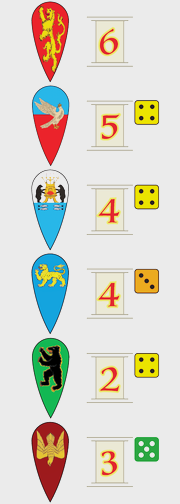
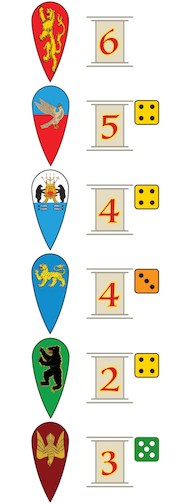
pngquant optimized images

diff --git a/play.html b/play.html
@@ -259,19 +259,19 @@ body.shift .mustered_vassals {
 .mat .mustered_vassals { bottom: 138px; right: 8px; width: 94px; }
 X.mat .mustered_vassals { top: 228px; right: 6px; width: 94px; }
 
-.mat.teutonic.andreas .background { background-image:url(images/mat_teutonic_andreas.png) }
-.mat.teutonic.heinrich .background { background-image:url(images/mat_teutonic_heinrich.png) }
-.mat.teutonic.hermann .background { background-image:url(images/mat_teutonic_hermann.png) }
-.mat.teutonic.knud_and_abel .background { background-image:url(images/mat_teutonic_knud_and_abel.png) }
-.mat.teutonic.rudolf .background { background-image:url(images/mat_teutonic_rudolf.png) }
-.mat.teutonic.yaroslav .background { background-image:url(images/mat_teutonic_yaroslav.png) }
+.mat.teutonic.andreas .background { background-image:url(images/mat_teutonic_andreas.opt.png) }
+.mat.teutonic.heinrich .background { background-image:url(images/mat_teutonic_heinrich.opt.png) }
+.mat.teutonic.hermann .background { background-image:url(images/mat_teutonic_hermann.opt.png) }
+.mat.teutonic.knud_and_abel .background { background-image:url(images/mat_teutonic_knud_and_abel.opt.png) }
+.mat.teutonic.rudolf .background { background-image:url(images/mat_teutonic_rudolf.opt.png) }
+.mat.teutonic.yaroslav .background { background-image:url(images/mat_teutonic_yaroslav.opt.png) }
 
-.mat.russian.aleksandr .background { background-image:url(images/mat_russian_aleksandr.png) }
-.mat.russian.andrey .background { background-image:url(images/mat_russian_andrey.png) }
-.mat.russian.domash .background { background-image:url(images/mat_russian_domash.png) }
-.mat.russian.gavrilo .background { background-image:url(images/mat_russian_gavrilo.png) }
-.mat.russian.karelians .background { background-image:url(images/mat_russian_karelians.png) }
-.mat.russian.vladislav .background { background-image:url(images/mat_russian_vladislav.png) }
+.mat.russian.aleksandr .background { background-image:url(images/mat_russian_aleksandr.opt.png) }
+.mat.russian.andrey .background { background-image:url(images/mat_russian_andrey.opt.png) }
+.mat.russian.domash .background { background-image:url(images/mat_russian_domash.opt.png) }
+.mat.russian.gavrilo .background { background-image:url(images/mat_russian_gavrilo.opt.png) }
+.mat.russian.karelians .background { background-image:url(images/mat_russian_karelians.opt.png) }
+.mat.russian.vladislav .background { background-image:url(images/mat_russian_vladislav.opt.png) }
 
 /* TUCKED CARDS */
 
@@ -801,10 +801,10 @@ X.mat .mustered_vassals { top: 228px; right: 6px; width: 94px; }
 .service_marker.lord { background-size: 90px 252px }
 .service_marker.vassal { background-size: 270px 210px }
 
-.service_marker.lord.teutonic { background-image:url(images/service_lords_teutonic.png) }
-.service_marker.lord.russian { background-image:url(images/service_lords_russian.png) }
-.service_marker.vassal.teutonic { background-image:url(images/service_vassals_teutonic.png) }
-.service_marker.vassal.russian { background-image:url(images/service_vassals_russian.png) }
+.service_marker.lord.teutonic { background-image:url(images/service_lords_teutonic.opt.png) }
+.service_marker.lord.russian { background-image:url(images/service_lords_russian.opt.png) }
+.service_marker.vassal.teutonic { background-image:url(images/service_vassals_teutonic.opt.png) }
+.service_marker.vassal.russian { background-image:url(images/service_vassals_russian.opt.png) }
 
 .service_marker.lord.image0{background-position:0 -0px}
 .service_marker.lord.image1{background-position:0 -42px}
